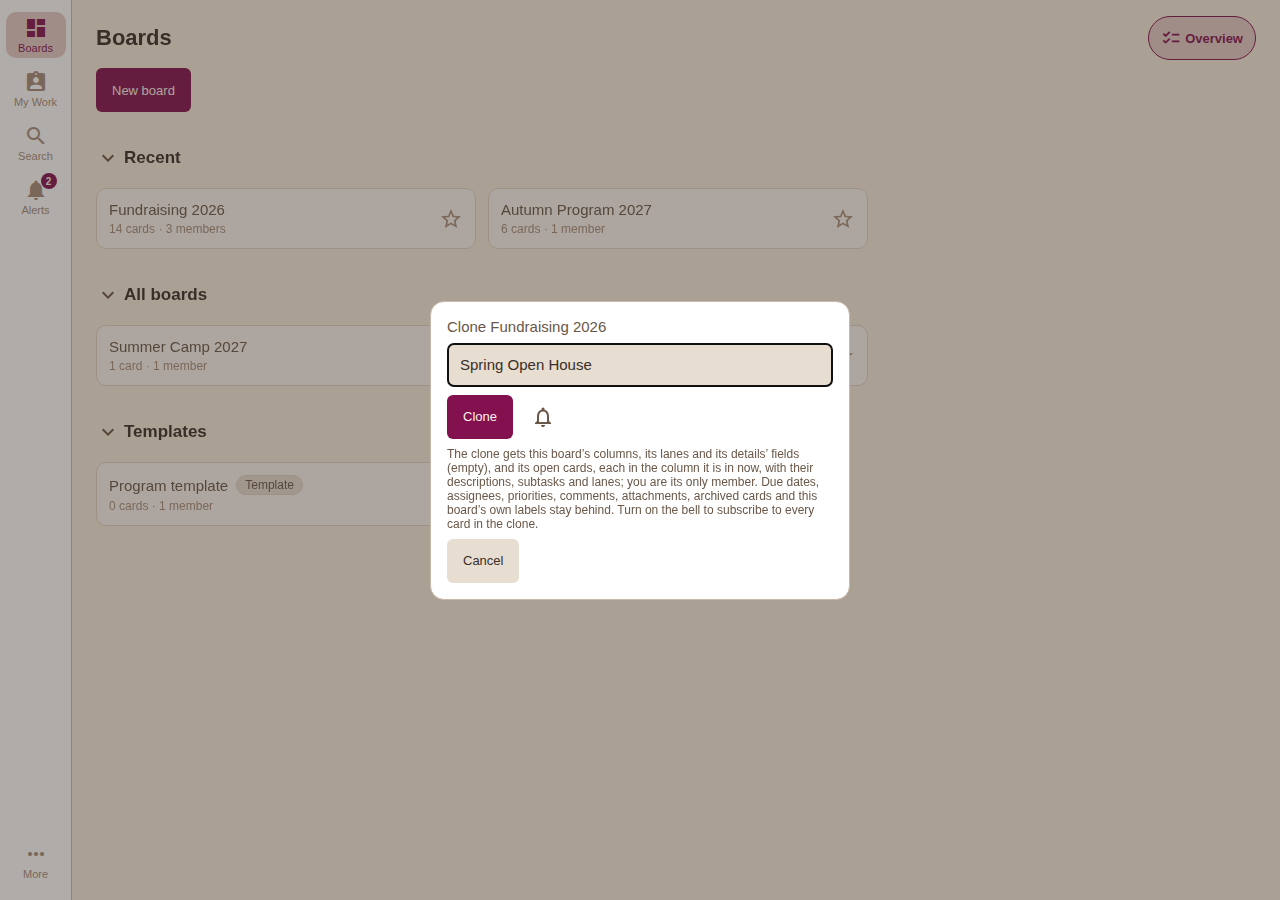
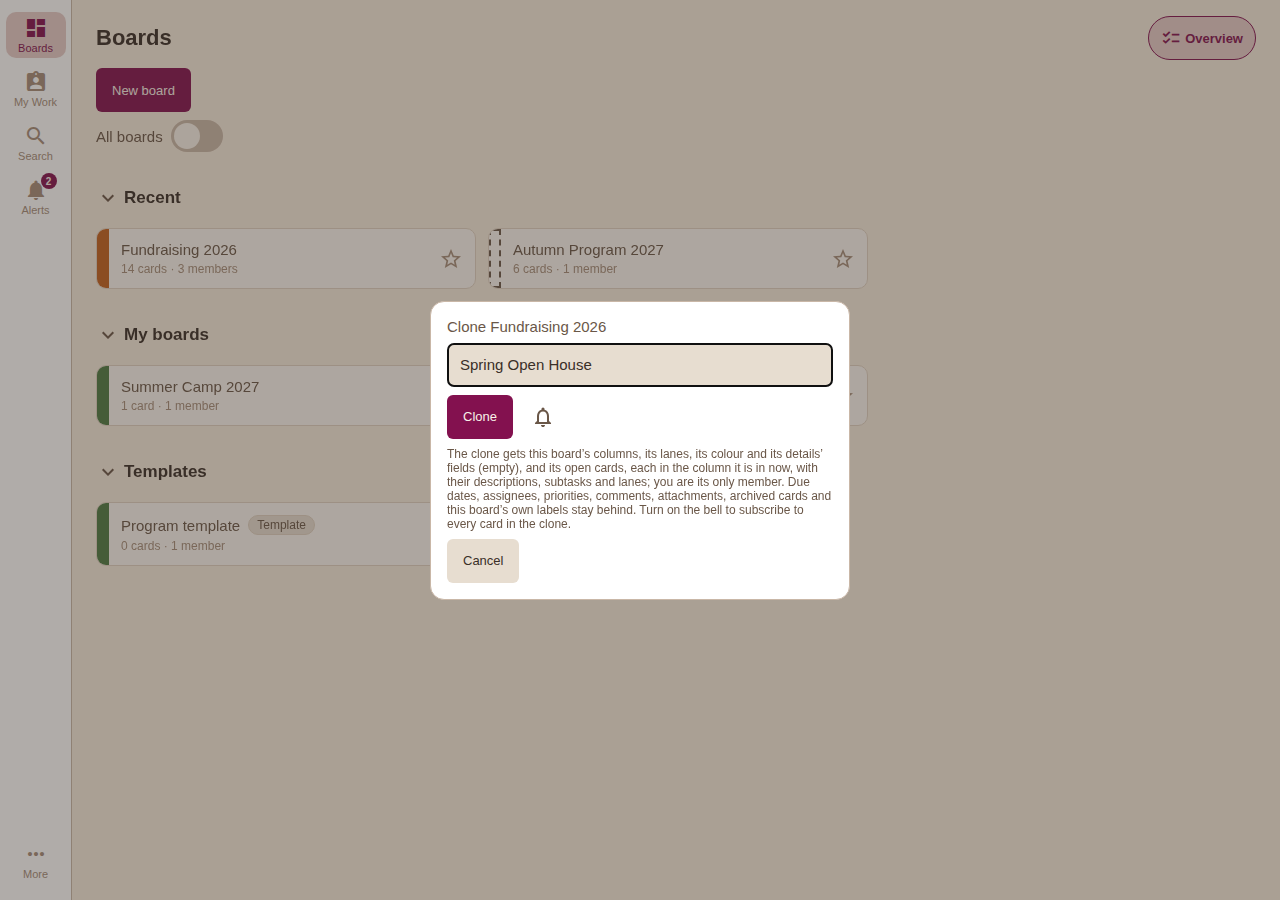
docs(manual): pictures of board colours
colour-* are new: the colours open from a board's stripe. boards-*
and clone-* now show the seed's stripes. The rest were retaken and
differed only by dates and the build stamp, so they are left.

diff --git a/docs/PHASE_STATUS.md b/docs/PHASE_STATUS.md
@@ -63,8 +63,6 @@ to it last, once the web, Play and TestFlight have it (`docs/DEPLOY.md`
 
 | Film or picture | What it lacks |
 |---|---|
-| Pictures `colour-phone`, `colour-wide` | New: the colours open from a board's stripe (`colour` in `manual-shots.mjs`). |
-| Pictures `boards-*`, `clone-*` | The seed's boards now carry stripes. |
 | Film *Creating a board* (`new-board`) | Giving the new board a colour from its stripe, and that only owners and admins can. |
 | Films *Finding your way around*, *Cloning a board* | The Boards list now has stripes; the clone keeps its source's colour. |
 
